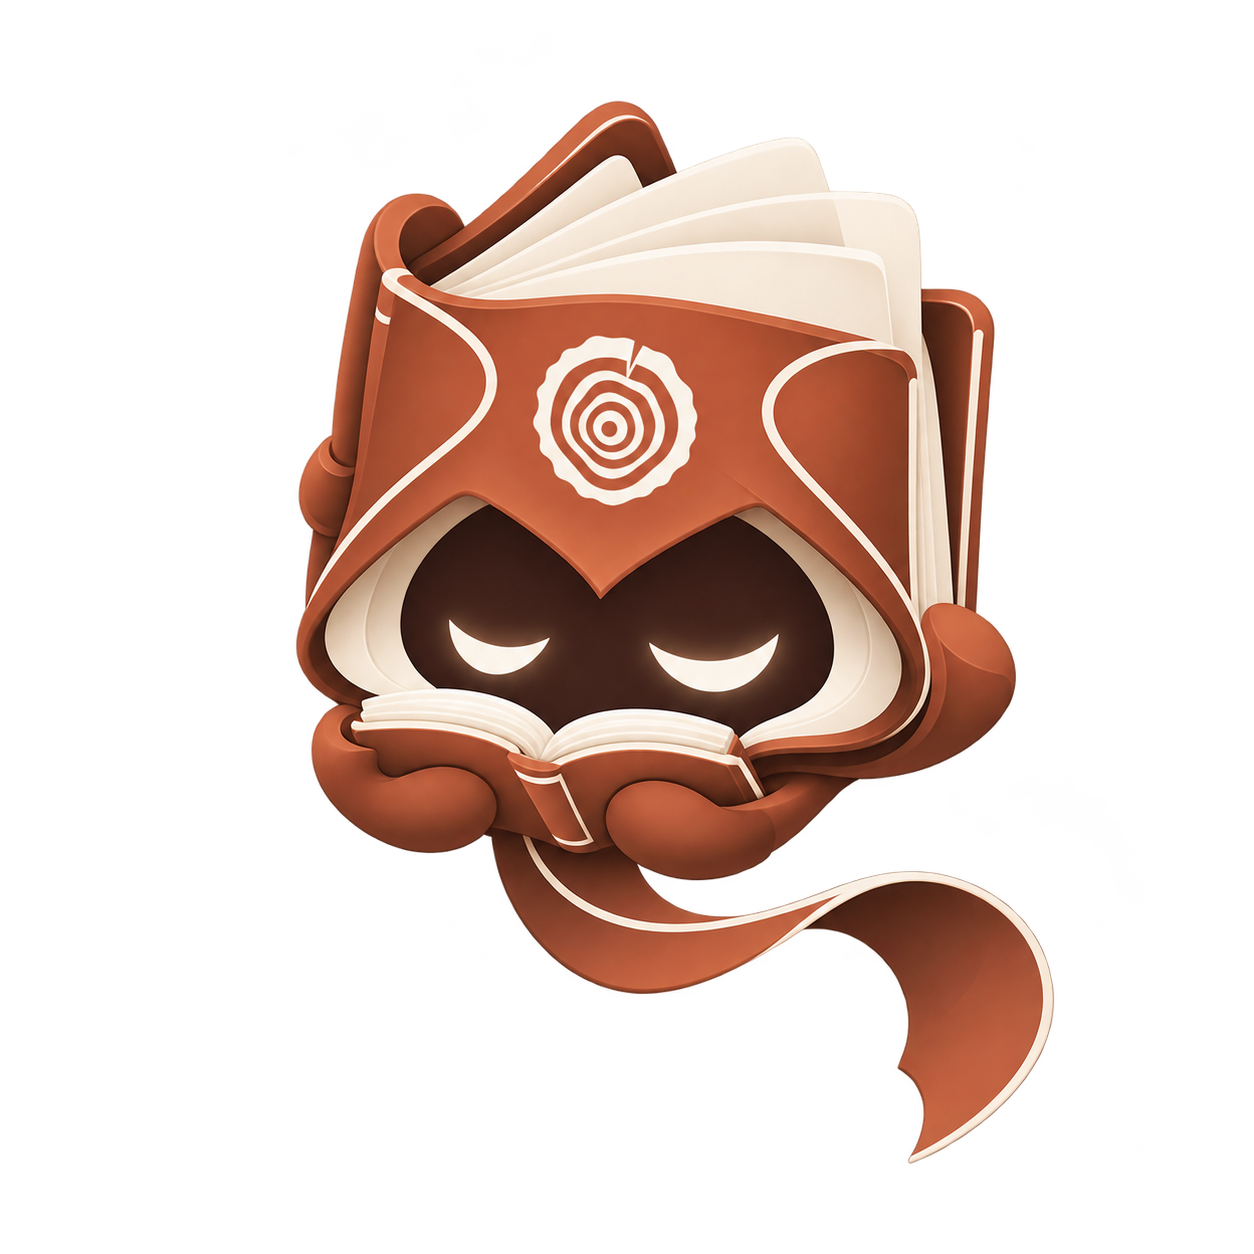
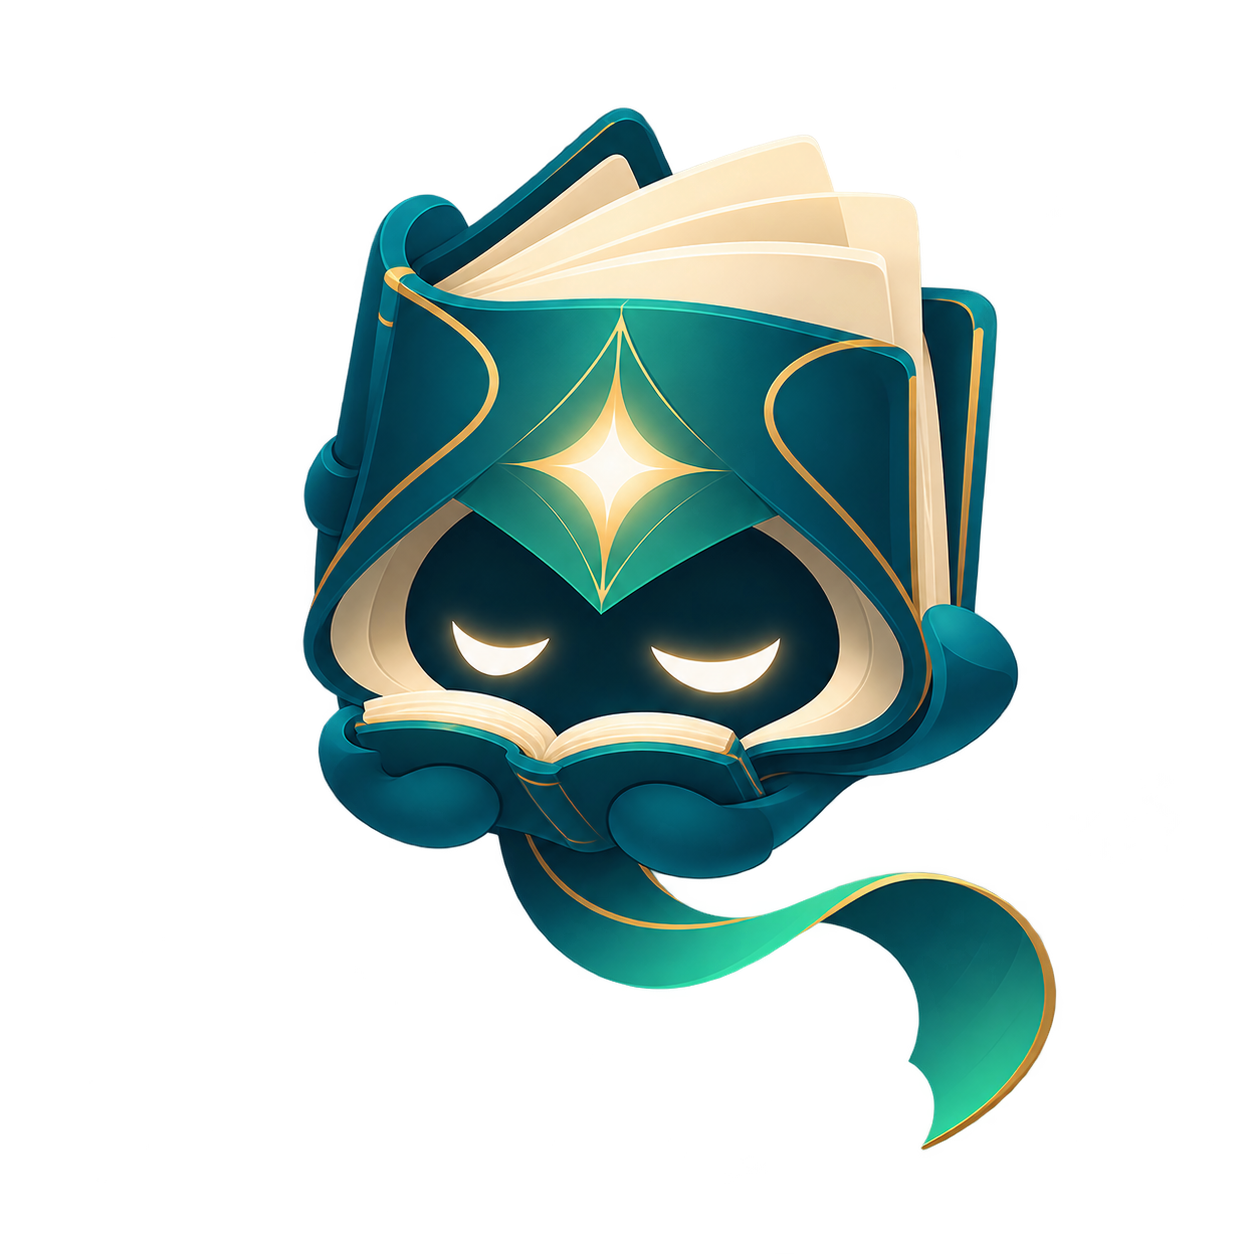
Brand: retain the current mascot while new concepts are selected

Changed region(s): [[0.2177, 0.0622, 0.8397, 0.933]]

diff --git a/apps/web/src/components/brand/GnosiaMascot.tsx b/apps/web/src/components/brand/GnosiaMascot.tsx
@@ -11,10 +11,10 @@ import sleepy from "../../../public/brand/mascot/sleepy.png";
 
 /**
  * The mascot: the hooded tome with the glowing crescent eyes. Each pose is
- * a terracotta refresh of the owner's renders, on a transparent ground, trimmed to the
+ * one of the owner's renders, drawn on a transparent ground, trimmed to the
  * art and scaled to 900px on its longest side under `public/brand/mascot/`.
- * The full renders are in docs/design/brand/mascot/, and the refreshed pose
- * sheet is docs/design/brand/mascot-terracotta-sheet.png.
+ * The full 1254px renders are in docs/design/brand/mascot/, and the mascot
+ * sheet (docs/design/brand/mascot-sheet.png) stays as the reference.
  *
  * Always decorative (`alt=""`). Size it by height with a class
  * (`h-[200px] lg:h-[400px]`); the width follows the pose's own proportions.

diff --git a/docs/design/BRAND.md b/docs/design/BRAND.md
@@ -114,7 +114,7 @@ reduction of it, and where the two disagree the art wins.
 | [docs/design/brand/logo-sheet.png](brand/logo-sheet.png) | The primary lockup, the symbol alone, the wordmark alone, both on light and dark, and the app icon | The original lockup reference; superseded for the interface by the logo files below. Historical reference only; `GnosiaMark.ts` and the preview kit now reproduce the supplied 8-5 rings |
 | [docs/design/brand/app-icon.png](brand/app-icon.png) | The first app icon: the old mark on a navy-to-teal rounded square, 1254px | Reference only. Every shipped icon is now cut from `logo/mark.png` |
 | [docs/design/brand/mascot-sheet.png](brand/mascot-sheet.png) | The mascot in six poses: neutral, happy, reading, curious, excited, sleepy | Reference only; the shipped poses come from the renders below |
-| [docs/design/brand/mascot/](brand/mascot/) `{neutral,happy,reading,curious,excited,sleepy}.png` | The six refreshed poses as separate renders, one file per pose, refreshed in terracotta and cream on a transparent ground | Source of the shipped poses below |
+| [docs/design/brand/mascot/](brand/mascot/) `{neutral,happy,reading,curious,excited,sleepy}.png` | The six poses as separate renders, one file per pose, 1254px square on a transparent ground | Source of the shipped poses below |
 | [docs/design/brand/hero-lockup.png](brand/hero-lockup.png) | The mark, the wordmark, the tagline and the mascot together on cream | Source of the social card |
 | [docs/design/brand/composite.png](brand/composite.png) | The lockup, the mascot and the icons on one board | Reference only |
 | [docs/design/brand/world-staircase.png](brand/world-staircase.png) | The world: a staircase of books into a sky city, the mascot beside it | Source of `public/banner.png` |
@@ -124,7 +124,7 @@ reduction of it, and where the two disagree the art wins.
 | [apps/web/src/app/icon.png](../../apps/web/src/app/icon.png) (512), `icon.svg`, `favicon.ico` | The new mark, supplied as final art: PNG, a hand-pixelled SVG and a multi-size ICO | Favicon and PWA icon |
 | [apps/web/src/app/apple-icon.png](../../apps/web/src/app/apple-icon.png) (180) | The new mark on an opaque square, supplied as final art; opaque, because iOS fills a transparent home-screen icon with black, and square, because iOS rounds the corners itself | Home-screen icon |
 | [apps/desktop/Resources/AppIcon.png](../../apps/desktop/Resources/AppIcon.png) (1024) | The new mark, supplied as final art; `scripts/bundle-app.sh` renders the `.icns` from it | macOS app icon |
-| [apps/web/public/brand/mascot/](../../apps/web/public/brand/mascot/) `{neutral,happy,reading,curious,excited,sleepy}.png` | Cut from the refreshed renders in `docs/design/brand/mascot/`: alpha-trimmed, padded by 8px and scaled to 900px on the longest side | `GnosiaMascot` |
+| [apps/web/public/brand/mascot/](../../apps/web/public/brand/mascot/) `{neutral,happy,reading,curious,excited,sleepy}.png` | Cut from the renders in `docs/design/brand/mascot/`: trimmed to the art plus 8px and scaled to 900px on the longest side (620 to 880px wide) | `GnosiaMascot` |
 | [apps/web/public/opengraph-image.png](../../apps/web/public/opengraph-image.png) (1200 by 630) | Interim 8-5 mark and terracotta wordmark on cream, from `kit/social-card.svg` | The social card; the owner's hand-cut art replaces it later |
 | [apps/web/public/banner.png](../../apps/web/public/banner.png) | Made from `world-staircase.png` | A wide banner, for the repository and campaign use |
 
@@ -168,21 +168,27 @@ them for sign-in. The mark stays at 1.9em and the lettering at 0.8em in bars.
 
 ## The mascot
 
-A small living tome: terracotta covers folded into a hood, warm earth in
-its shadow, cream pages, cream edge trim and glowing cream eyes. A cream
-tree-ring emblem replaces the old star sigil. Hands and the long ribbon
-tail keep their original shapes; the six expressions still carry the pose.
+A small living tome: teal covers folded into a **dark hood**, cream pages
+fanned behind it, gold line accents along the cover, the **star sigil**
+glowing on the brow, **two glowing crescent eyes** in the hood's shadow, two
+small cloth hands, and a **ribbon tail** in teal and green trailing below.
+Its expression lives in the eyes: closed smiles for neutral and happy,
+round for reading and curious, squeezed shut for excited, downturned
+crescents for sleepy. Happy and excited raise both hands with gold strokes
+either side, and excited adds four-point sparkles; reading holds an open
+book up, sleepy holds one low.
 
-The 2026-11-09 refresh was generated from the owner's individual pose
-renders and the supplied 8-5 logo, keeping the character, gestures and
-composition. Sources remain in `docs/design/brand/mascot/` and the reviewed
-six-pose sheet is `brand/mascot-terracotta-sheet.png`. The original teal
-sheet is a historical reference, preserved alongside the new one.
-
-The shipped copies are alpha-trimmed, padded by 8px and sized to 900px on
-the longest side. `GnosiaMascot` uses static imports, so a replacement gets
-a fresh content-hashed URL and its dimensions follow the file. Every pose
-is decorative, with an empty alternative description.
+Each pose is its own render from the owner, 1254px square on a transparent
+ground, kept in [docs/design/brand/mascot/](brand/mascot/). The renders have
+no background, no fringe and no baked shadow, so the same file works on
+cream and on navy. The copies the app ships are trimmed to the art plus 8px
+and scaled to 900px on the longest side, which covers the 400px hero at 2x.
+[GnosiaMascot](../../apps/web/src/components/brand/GnosiaMascot.tsx) renders
+a pose from `public/brand/mascot/` with `next/image`, `alt=""`, sized by
+height with a class. The poses are static imports, so each ships under a
+content-hashed URL and `next/image` reads its pixel size from the file: a
+replaced file needs no size edited anywhere and never leaves a browser on
+the old picture.
 
 | Pose | Where it goes |
 | --- | --- |
